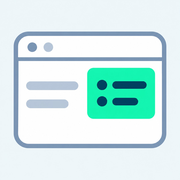
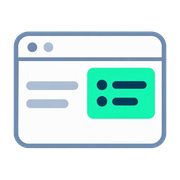
chore: use transparent plugin artwork (v0.23.1)

diff --git a/docs/VERIFICATION.md b/docs/VERIFICATION.md
@@ -7,6 +7,19 @@ it is expected to break, via `SC_ONLY`, in an 8-way parallel pool — the contro
 Host used for the earlier live checks: DSH 0.2.1-rc.3, Web UI served on `http://127.0.0.1:3080`, installed into the
 `web` profile with a `link:` to the working copy, macOS, light and dark themes.
 
+## 0.23.1 artwork checks — 2026-11-02
+
+- Replaced both icons with the user's transparent-background artwork. The supplied WebP's alpha channel
+  is preserved in `icon.png` (256 × 256, 24,014 bytes) and `docs/icon-180.png` (180 × 180, 15,555 bytes).
+- Both files decode as RGBA PNG, have alpha extrema 0–255 and fully transparent corners, and stay under
+  256 KiB. The manifest still references the packaged `icon.png`; the marketplace image URL is unchanged.
+- Installation: removed and reinstalled the linked bundle through the plugin manager; both operations
+  returned `application: applied`, with no warnings. The plugin detail page displays version 0.23.1.
+  Both displayed icons match the packaged PNG byte-for-byte (SHA-256 checked), and browser canvas pixel
+  reads confirm that all four corners have alpha 0. `npm pack --dry-run --json` includes the new icon.
+- This release only changes artwork, version metadata and documentation. The 0.23.0 runtime checks
+  below still describe the unchanged implementation.
+
 ## 0.23.0 checks — 2026-11-02
 
 - Environment: DSH 0.2.1-rc.5, the same local Web UI and linked working copy.

diff --git a/README.zh-CN.md b/README.zh-CN.md
@@ -260,7 +260,7 @@
 dsh plugin --profile web add github:liuhusk/dsh-status-card
 
 # 或钉住某个 Release 标签（见 Releases）
-dsh plugin --profile web add github:liuhusk/dsh-status-card#v0.23.0
+dsh plugin --profile web add github:liuhusk/dsh-status-card#v0.23.1
 ```
 
 本地 checkout 场景走应用内插件管理器（Creator 模式 + Full access）：`install_bundle`（target = 本目录

diff --git a/README.md b/README.md
@@ -121,7 +121,7 @@ controller of that line).
 dsh plugin --profile web add github:liuhusk/dsh-status-card
 
 # or pin a release tag (see Releases)
-dsh plugin --profile web add github:liuhusk/dsh-status-card#v0.23.0
+dsh plugin --profile web add github:liuhusk/dsh-status-card#v0.23.1
 ```
 
 Or from a local checkout, through the in-app plugin manager (Creator mode / Full access):
